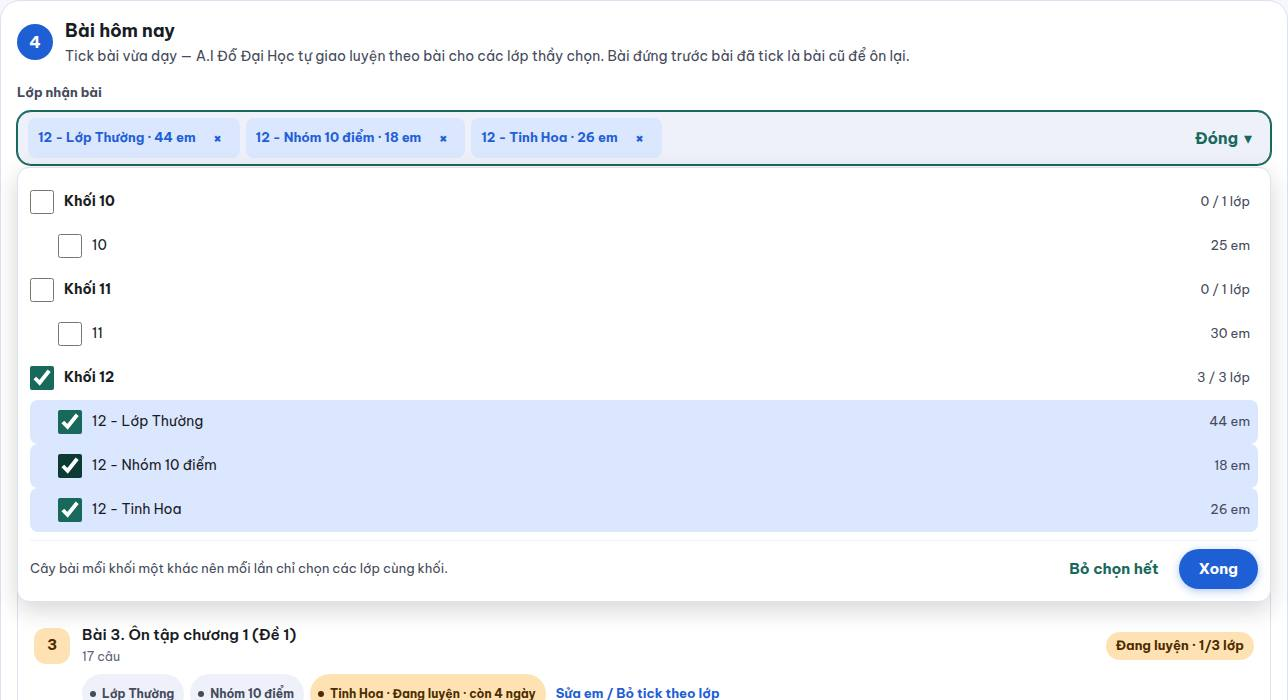
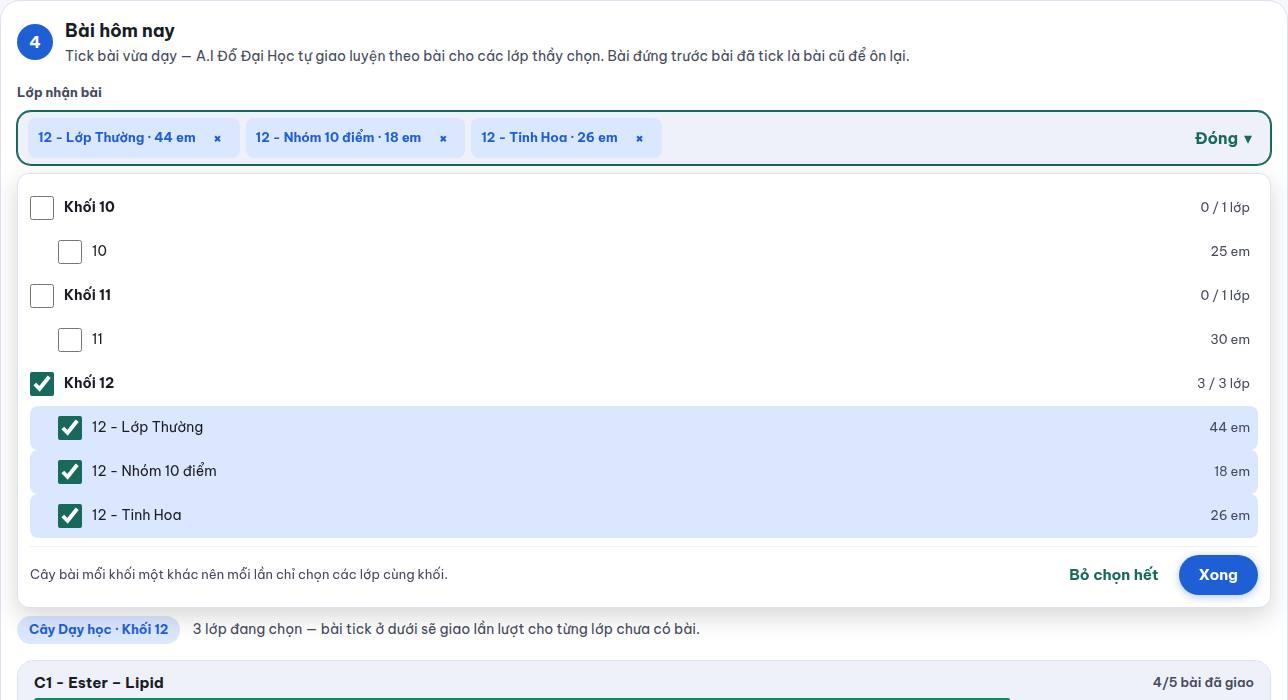
Ô chọn lớp: tấm xổ xuống nằm trong luồng ngay dưới ô (không đè thẻ lớp đã chọn khi ô cao nhiều dòng trên điện thoại) + ảnh mới
Claude-Session: https://claude.ai/code/session_01CNsQjeB4jcWjbMohw272Tz

diff --git a/src/components/day-hoc/bai-hom-nay.css b/src/components/day-hoc/bai-hom-nay.css
@@ -30,6 +30,10 @@
 .bhn-chon-lop .cd-cay {
   max-height: min(440px, 60vh);
 }
+/* Tấm xổ xuống nằm TRONG luồng, ngay dưới ô: ô cao nhiều dòng khi chọn nhiều lớp (nhất là điện thoại) thì tấm không đè lên thẻ lớp đã chọn. */
+.bhn-chon-lop .cd-tam-chon {
+  position: static;
+}
 .bhn-khoi-meta {
   display: flex;
   flex-wrap: wrap;
